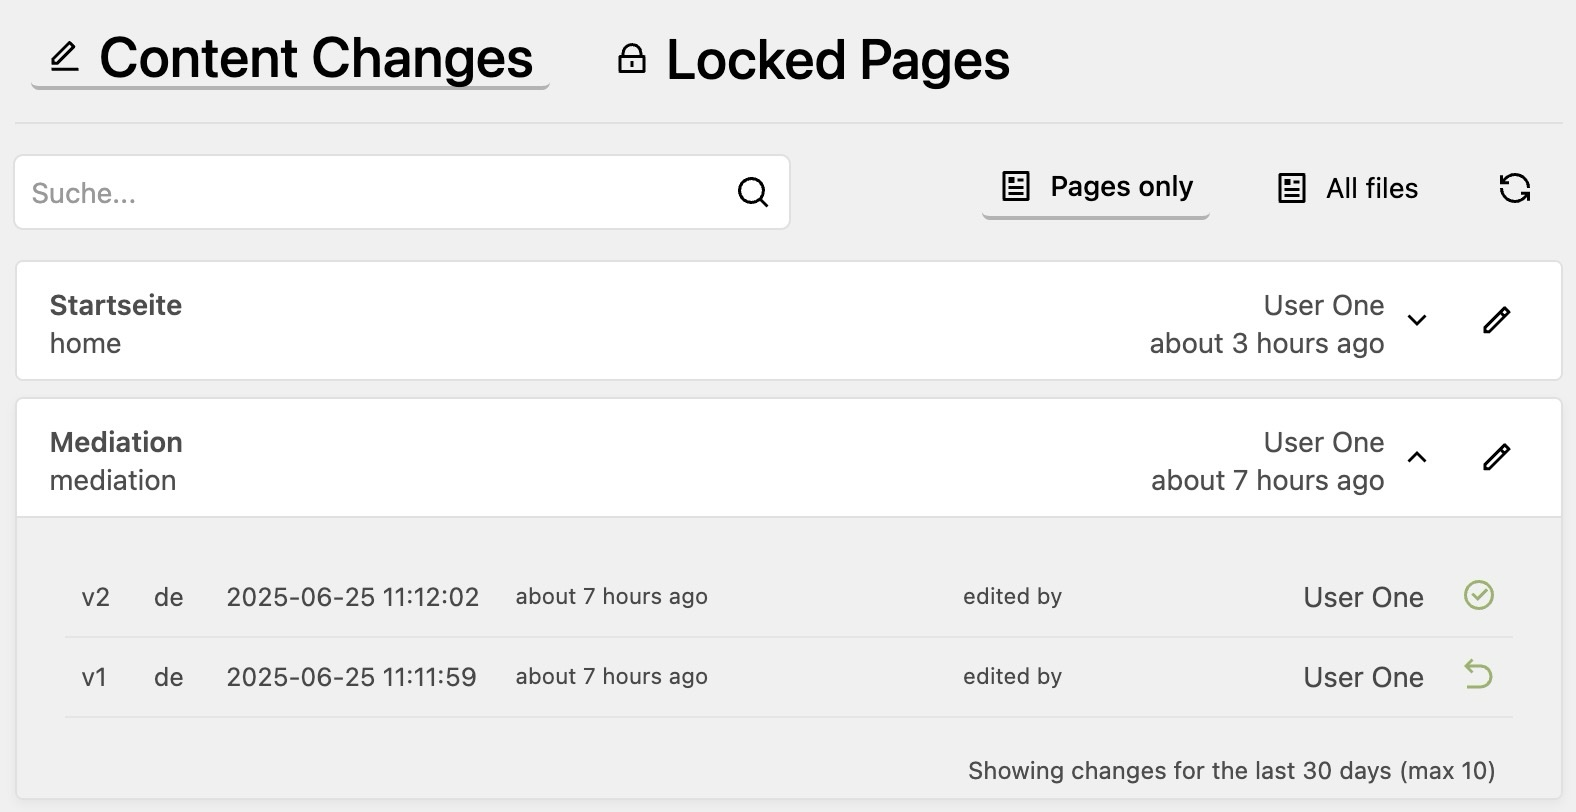
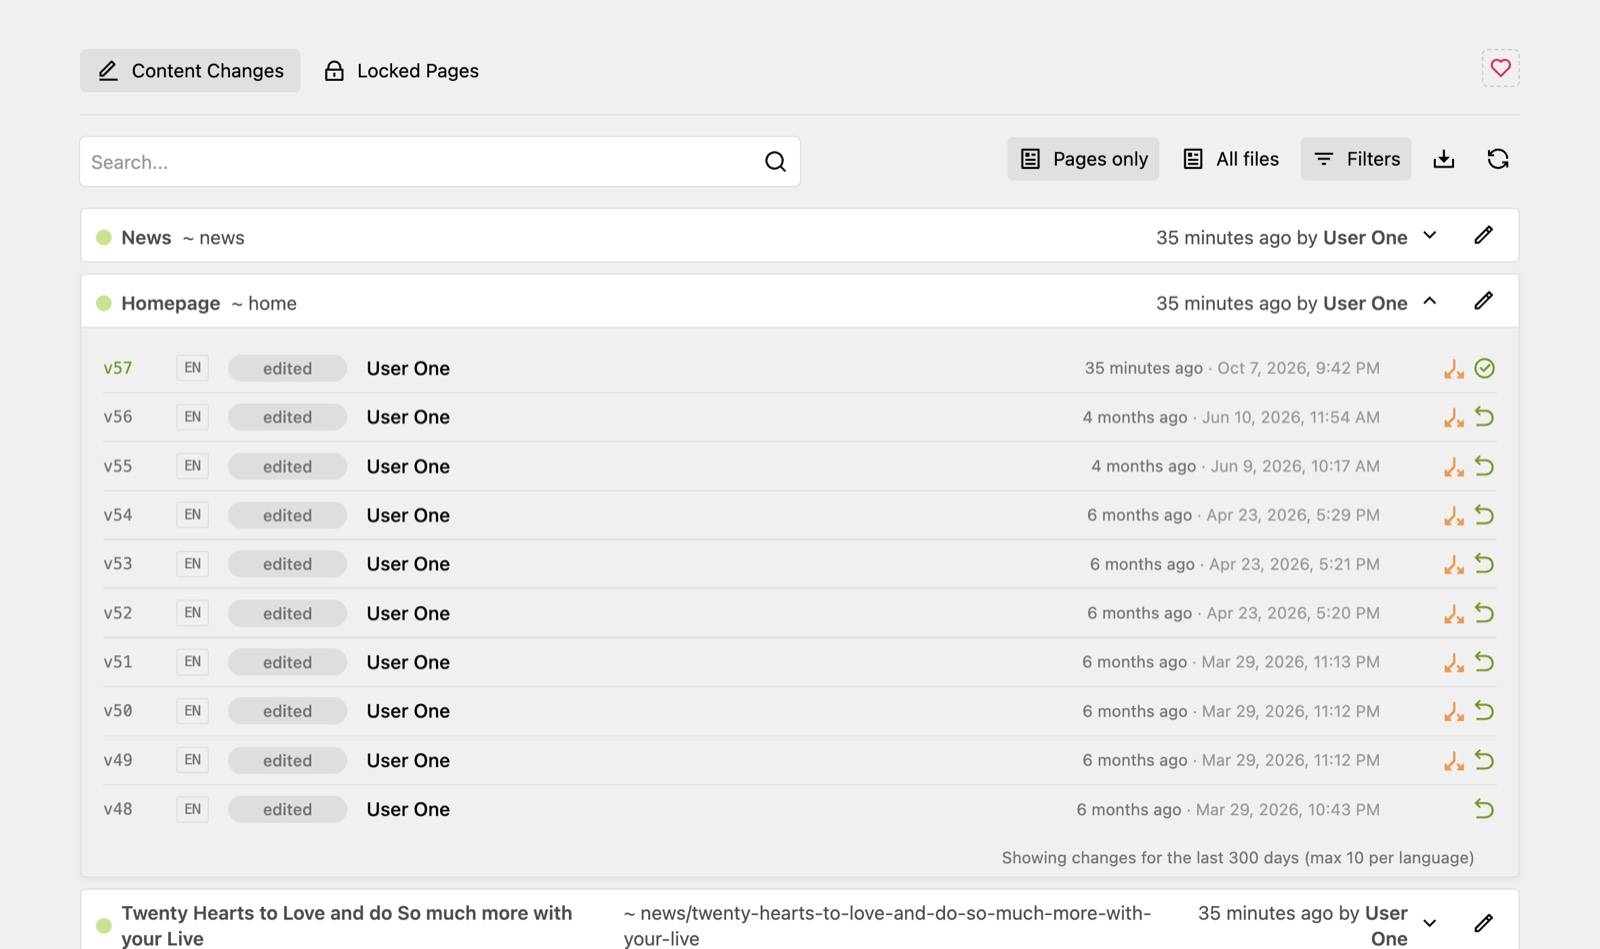
docs: update screenshot and add history section screenshot

diff --git a/README.md b/README.md
@@ -164,6 +164,8 @@ When restore functionality is disabled:
 
 Show the recent changes of a page, the site or a file right where editors work by adding the `contentwatch` section to its blueprint:
 
+<img src="screenshot-section.jpg" alt="History section in a page sidebar" width="468">
+
 ```yaml
 sections:
   history:
